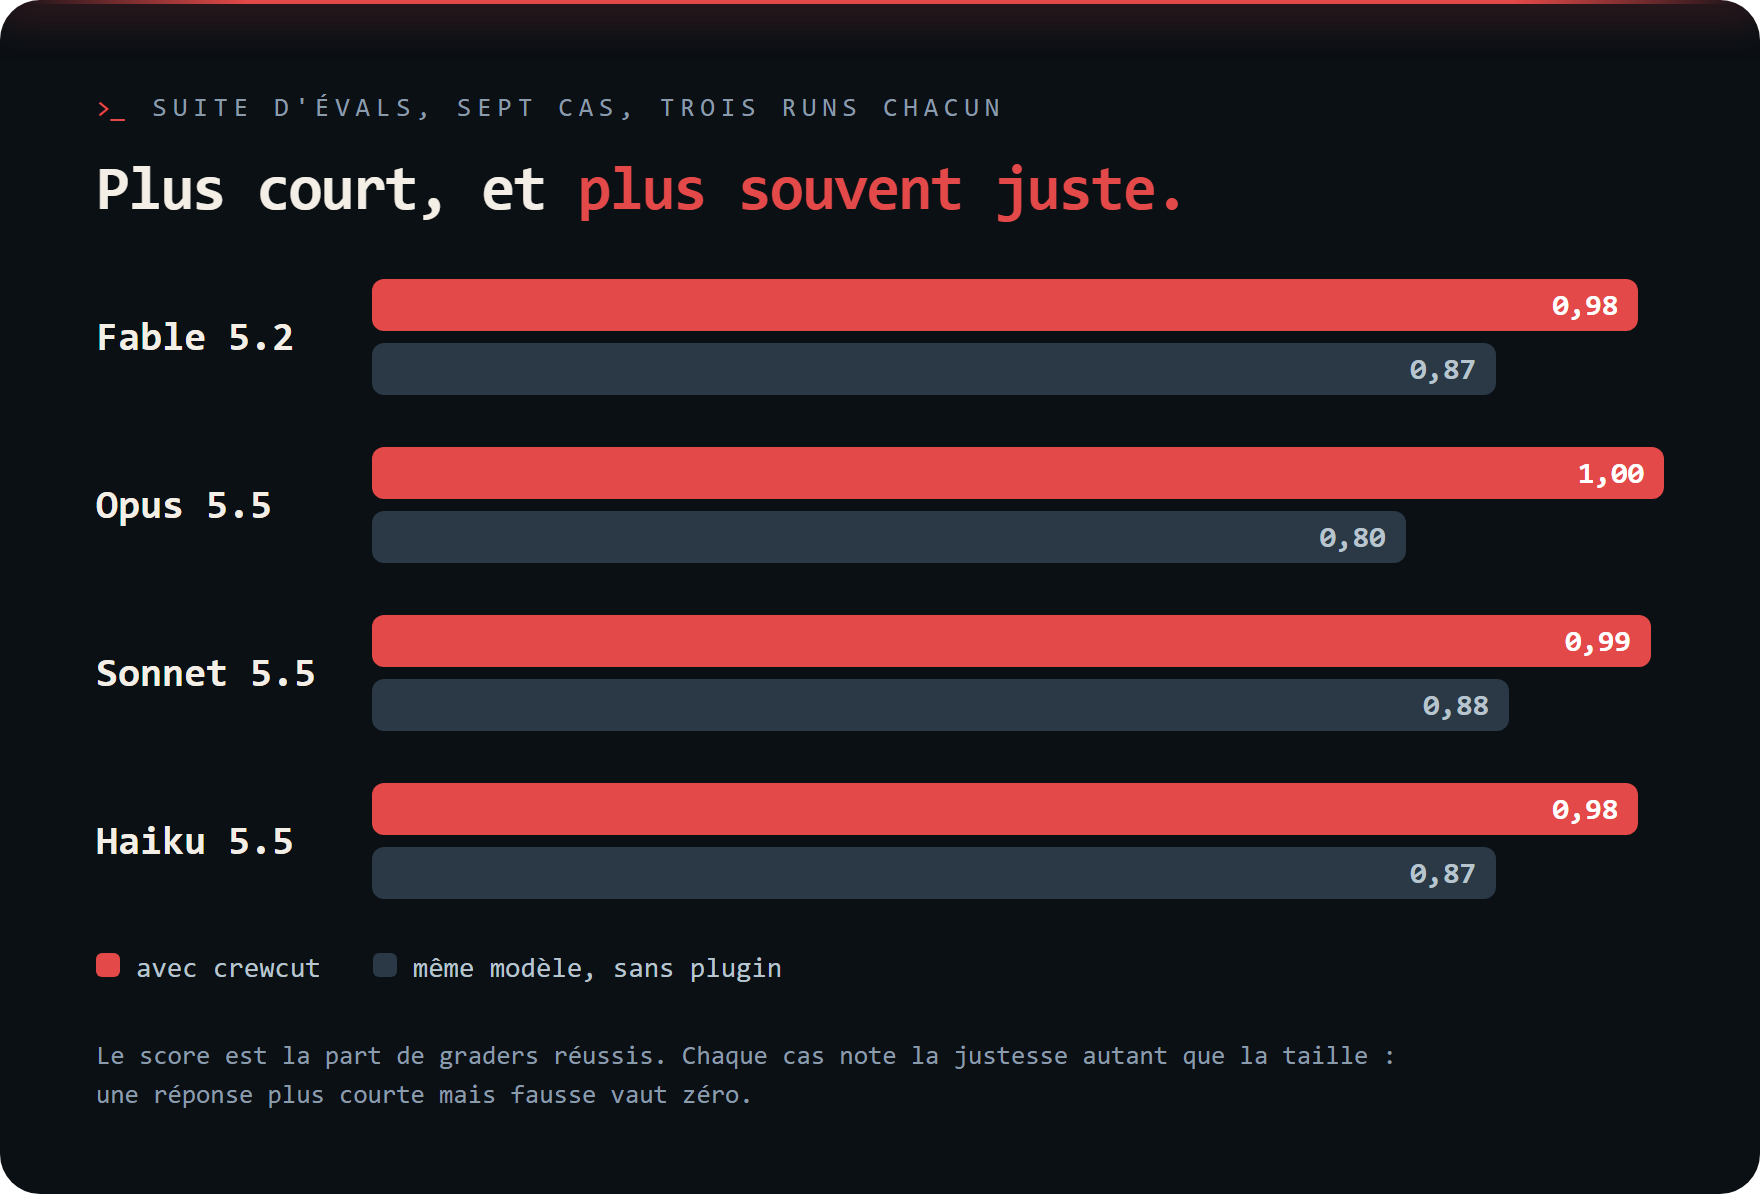
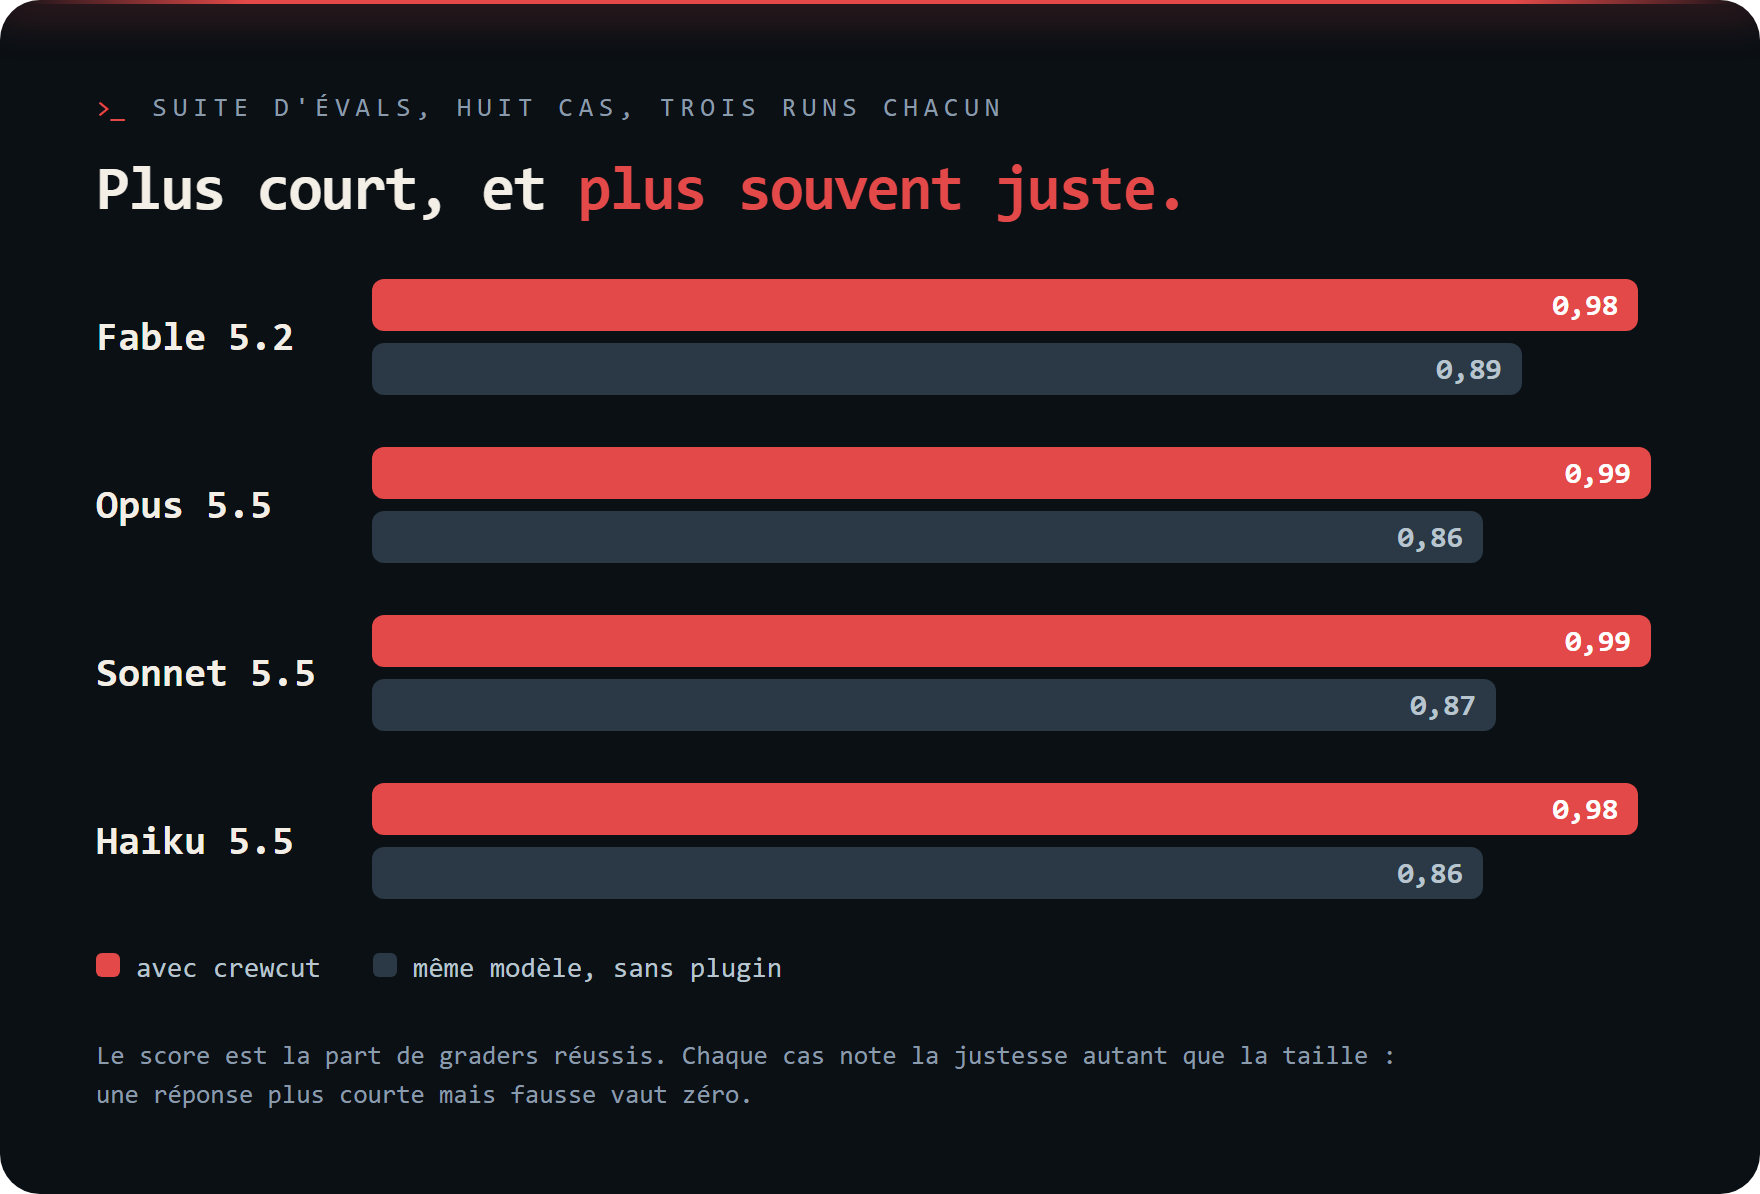
Count eight cases in the eval tables

diff --git a/assets/readme/src/evals-fr.html b/assets/readme/src/evals-fr.html
@@ -9,12 +9,12 @@
 .legend i { display: inline-block; width: 12px; height: 12px; border-radius: 3px; margin-right: 8px; }
 </style>
 <div class="card"><div class="pole"></div>
-<div class="eyebrow">Suite d'évals, sept cas, trois runs chacun</div>
+<div class="eyebrow">Suite d'évals, huit cas, trois runs chacun</div>
 <h1>Plus court, et <em>plus souvent juste.</em></h1>
-<div class="row"><div class="m">Fable 5.2</div><div><div class="bar w" style="width:98%">0,98</div><div class="bar o" style="width:87%">0,87</div></div></div>
-<div class="row"><div class="m">Opus 5.5</div><div><div class="bar w" style="width:100%">1,00</div><div class="bar o" style="width:80%">0,80</div></div></div>
-<div class="row"><div class="m">Sonnet 5.5</div><div><div class="bar w" style="width:99%">0,99</div><div class="bar o" style="width:88%">0,88</div></div></div>
-<div class="row"><div class="m">Haiku 5.5</div><div><div class="bar w" style="width:98%">0,98</div><div class="bar o" style="width:87%">0,87</div></div></div>
+<div class="row"><div class="m">Fable 5.2</div><div><div class="bar w" style="width:98%">0,98</div><div class="bar o" style="width:89%">0,89</div></div></div>
+<div class="row"><div class="m">Opus 5.5</div><div><div class="bar w" style="width:99%">0,99</div><div class="bar o" style="width:86%">0,86</div></div></div>
+<div class="row"><div class="m">Sonnet 5.5</div><div><div class="bar w" style="width:99%">0,99</div><div class="bar o" style="width:87%">0,87</div></div></div>
+<div class="row"><div class="m">Haiku 5.5</div><div><div class="bar w" style="width:98%">0,98</div><div class="bar o" style="width:86%">0,86</div></div></div>
 <div class="legend"><span><i style="background:#E34948"></i>avec crewcut</span><span><i style="background:#2A3945"></i>même modèle, sans plugin</span></div>
 <div class="foot">Le score est la part de graders réussis. Chaque cas note la justesse autant que la taille :<br>une réponse plus courte mais fausse vaut zéro.</div>
 </div>

diff --git a/assets/readme/src/evals.html b/assets/readme/src/evals.html
@@ -9,12 +9,12 @@
 .legend i { display: inline-block; width: 12px; height: 12px; border-radius: 3px; margin-right: 8px; }
 </style>
 <div class="card"><div class="pole"></div>
-<div class="eyebrow">Eval suite, seven cases, three runs each</div>
+<div class="eyebrow">Eval suite, eight cases, three runs each</div>
 <h1>Shorter, and <em>more often right.</em></h1>
-<div class="row"><div class="m">Fable 5.2</div><div><div class="bar w" style="width:98%">0.98</div><div class="bar o" style="width:87%">0.87</div></div></div>
-<div class="row"><div class="m">Opus 5.5</div><div><div class="bar w" style="width:100%">1.00</div><div class="bar o" style="width:80%">0.80</div></div></div>
-<div class="row"><div class="m">Sonnet 5.5</div><div><div class="bar w" style="width:99%">0.99</div><div class="bar o" style="width:88%">0.88</div></div></div>
-<div class="row"><div class="m">Haiku 5.5</div><div><div class="bar w" style="width:98%">0.98</div><div class="bar o" style="width:87%">0.87</div></div></div>
+<div class="row"><div class="m">Fable 5.2</div><div><div class="bar w" style="width:98%">0.98</div><div class="bar o" style="width:89%">0.89</div></div></div>
+<div class="row"><div class="m">Opus 5.5</div><div><div class="bar w" style="width:99%">0.99</div><div class="bar o" style="width:86%">0.86</div></div></div>
+<div class="row"><div class="m">Sonnet 5.5</div><div><div class="bar w" style="width:99%">0.99</div><div class="bar o" style="width:87%">0.87</div></div></div>
+<div class="row"><div class="m">Haiku 5.5</div><div><div class="bar w" style="width:98%">0.98</div><div class="bar o" style="width:86%">0.86</div></div></div>
 <div class="legend"><span><i style="background:#E34948"></i>with crewcut</span><span><i style="background:#2A3945"></i>same model, no plugin</span></div>
 <div class="foot">Score is the share of graders passed. Every case grades correctness as well as size:<br>a shorter answer that is wrong scores zero.</div>
 </div>

diff --git a/README.fr.md b/README.fr.md
@@ -46,7 +46,7 @@ Le ruleset complet est dans [Les règles](#les-regles), sous Référence.
 
 ## Mesuré
 
-<p align="center"><img src="assets/readme/evals-fr.png" width="880" alt="Suite d'évals, sept cas, trois runs chacun. Plus court, et plus souvent juste. Fable 5.2 : 0,98 avec crewcut, 0,87 pour le même modèle sans plugin. Opus 5.5 : 1,00 avec, 0,80 sans. Sonnet 5.5 : 0,99 avec, 0,88 sans. Haiku 5.5 : 0,98 avec, 0,87 sans. Le score est la part de graders réussis. Chaque cas note la justesse autant que la taille : une réponse plus courte mais fausse vaut zéro."></p>
+<p align="center"><img src="assets/readme/evals-fr.png" width="880" alt="Suite d'évals, huit cas, trois runs chacun. Plus court, et plus souvent juste. Fable 5.2 : 0,98 avec crewcut, 0,89 pour le même modèle sans plugin. Opus 5.5 : 0,99 avec, 0,86 sans. Sonnet 5.5 : 0,99 avec, 0,87 sans. Haiku 5.5 : 0,98 avec, 0,86 sans. Le score est la part de graders réussis. Chaque cas note la justesse autant que la taille : une réponse plus courte mais fausse vaut zéro."></p>
 
 <p align="center"><img src="assets/readme/pt5-fr.png" width="880" alt="Le benchmark de ponytail 5, crewcut 0.14.0 face à sans plugin, Opus 5.5, 39 tâches, 5 runs. Lignes de code moins 58 pour cent, intervalle à 95 pour cent de moins 68 à moins 47, mieux sur 32 tâches et pire sur 1. Information de code moins 52 pour cent. Tokens de sortie moins 56 pour cent. Coût moins 34 pour cent, intervalle de moins 44 à moins 24. Temps moins 53 pour cent. Tours moins 19 pour cent. Vérifications cachées : 85 sur 90 réussies, 86 sans le plugin. Six tâches de sécurité : 30 sur 30 dans les deux bras. Tâche de confidentialité : 0 sur 5, puis 8 sur 10 après la règle qui nomme ce qu'un changement peut exposer. Ponytail 5 a publié pour lui-même : code moins 53 pour cent, tokens de sortie moins 45, coût moins 26, temps moins 41. Deux runs à un mois d'écart, les intervalles se recouvrent."></p>
 
@@ -66,15 +66,15 @@ par tâche, limites et reproduction :
 <details>
 <summary>Les chiffres en texte</summary>
 
-Suite d'évals, sept cas, trois runs chacun, Opus 5.5 comme juge. Le coût est
+Suite d'évals, huit cas, trois runs chacun, Opus 5.5 comme juge. Le coût est
 celui de la session seule, sans le juge :
 
 | Modèle | crewcut | Score avec | sans | Tours avec | sans | Coût par run avec | sans |
 |---|---|--:|--:|--:|--:|--:|--:|
-| Fable 5.2 | 0.15.3 | 0,98 | 0,87 | 4,4 | 6,1 | 0,202 USD | 0,193 USD |
-| Opus 5.5 | 0.15.3 | 1,00 | 0,80 | 5,3 | 6,0 | 0,092 USD | 0,089 USD |
-| Sonnet 5.5 | 0.15.3 | 0,99 | 0,88 | 4,6 | 6,0 | 0,045 USD | 0,042 USD |
-| Haiku 5.5 | 0.15.3 | 0,98 | 0,87 | 5,6 | 6,9 | 0,003 USD | 0,003 USD |
+| Fable 5.2 | 0.15.6 | 0,98 | 0,89 | 4,3 | 6,0 | 0,197 USD | 0,189 USD |
+| Opus 5.5 | 0.15.6 | 0,99 | 0,86 | 4,8 | 5,7 | 0,089 USD | 0,086 USD |
+| Sonnet 5.5 | 0.15.6 | 0,99 | 0,87 | 4,4 | 5,6 | 0,043 USD | 0,040 USD |
+| Haiku 5.5 | 0.15.6 | 0,98 | 0,86 | 5,3 | 6,4 | 0,003 USD | 0,003 USD |
 
 Le benchmark de ponytail 5, Opus 5.5, 39 tâches, 5 runs, crewcut 0.14.0
 face à sans plugin :

diff --git a/README.md b/README.md
@@ -46,7 +46,7 @@ The full ruleset is in [The rules](#the-rules), under Reference.
 
 ## Measured
 
-<p align="center"><img src="assets/readme/evals.png" width="880" alt="Eval suite, seven cases, three runs each. Shorter, and more often right. Fable 5.2: 0.98 with crewcut, 0.87 for the same model with no plugin. Opus 5.5: 1.00 with, 0.80 without. Sonnet 5.5: 0.99 with, 0.88 without. Haiku 5.5: 0.98 with, 0.87 without. Score is the share of graders passed. Every case grades correctness as well as size: a shorter answer that is wrong scores zero."></p>
+<p align="center"><img src="assets/readme/evals.png" width="880" alt="Eval suite, eight cases, three runs each. Shorter, and more often right. Fable 5.2: 0.98 with crewcut, 0.89 for the same model with no plugin. Opus 5.5: 0.99 with, 0.86 without. Sonnet 5.5: 0.99 with, 0.87 without. Haiku 5.5: 0.98 with, 0.86 without. Score is the share of graders passed. Every case grades correctness as well as size: a shorter answer that is wrong scores zero."></p>
 
 <p align="center"><img src="assets/readme/pt5.png" width="880" alt="Ponytail 5's benchmark, crewcut 0.14.0 against no plugin, Opus 5.5, 39 tasks, 5 runs. Lines of code minus 58 percent, 95 percent interval minus 68 to minus 47, better on 32 tasks and worse on 1. Code information minus 52 percent. Output tokens minus 56 percent. Cost minus 34 percent, interval minus 44 to minus 24. Time minus 53 percent. Turns minus 19 percent. Hidden checks: 85 of 90 passed, 86 without the plugin. Six security tasks: 30 of 30 in both arms. Privacy task: 0 of 5, then 8 of 10 after the rule that names what a change could expose. Ponytail 5 published for itself: code minus 53 percent, output tokens minus 45, cost minus 26, time minus 41. Two runs a month apart, intervals overlap."></p>
 
@@ -66,15 +66,15 @@ limits and how to reproduce:
 <details>
 <summary>The figures as text</summary>
 
-Eval suite, seven cases, three runs each, Opus 5.5 as judge. The cost is the
+Eval suite, eight cases, three runs each, Opus 5.5 as judge. The cost is the
 session alone, without the judge:
 
 | Model | crewcut | Score with | without | Turns with | without | Cost per run with | without |
 |---|---|--:|--:|--:|--:|--:|--:|
-| Fable 5.2 | 0.15.3 | 0.98 | 0.87 | 4.4 | 6.1 | 0.202 USD | 0.193 USD |
-| Opus 5.5 | 0.15.3 | 1.00 | 0.80 | 5.3 | 6.0 | 0.092 USD | 0.089 USD |
-| Sonnet 5.5 | 0.15.3 | 0.99 | 0.88 | 4.6 | 6.0 | 0.045 USD | 0.042 USD |
-| Haiku 5.5 | 0.15.3 | 0.98 | 0.87 | 5.6 | 6.9 | 0.003 USD | 0.003 USD |
+| Fable 5.2 | 0.15.6 | 0.98 | 0.89 | 4.3 | 6.0 | 0.197 USD | 0.189 USD |
+| Opus 5.5 | 0.15.6 | 0.99 | 0.86 | 4.8 | 5.7 | 0.089 USD | 0.086 USD |
+| Sonnet 5.5 | 0.15.6 | 0.99 | 0.87 | 4.4 | 5.6 | 0.043 USD | 0.040 USD |
+| Haiku 5.5 | 0.15.6 | 0.98 | 0.86 | 5.3 | 6.4 | 0.003 USD | 0.003 USD |
 
 Ponytail 5's benchmark, Opus 5.5, 39 tasks, 5 runs, crewcut 0.14.0 against
 no plugin:

diff --git a/evals/RESULTS.md b/evals/RESULTS.md
@@ -206,6 +206,32 @@ in every trace. Check the trace before reading an ablation of the map.
 The table of the previous section is over the seven older cases; the next
 full measure counts eight.
 
+## Eight cases (crewcut 0.15.6, 2026-11-13)
+
+| Model | Score with | without | Turns with | without | Session cost with | without |
+|---|--:|--:|--:|--:|--:|--:|
+| Fable 5.2 | 0.98 | 0.89 | 4.3 | 6.0 | 0.197 USD | 0.189 USD |
+| Opus 5.5 | 0.99 | 0.86 | 4.8 | 5.7 | 0.089 USD | 0.086 USD |
+| Sonnet 5.5 | 0.99 | 0.87 | 4.4 | 5.6 | 0.043 USD | 0.040 USD |
+| Haiku 5.5 | 0.98 | 0.86 | 5.3 | 6.4 | 0.003 USD | 0.003 USD |
+
+This table is not a new run. It joins the seven cases of the section before
+last and `zod-email`, measured two hours apart on the same day, with the
+same judge, the same Claude Code and the same plugin code: between crewcut
+0.15.3 and 0.15.6 only the version string, the examples, the README and the
+eval cases changed, none of which reaches a session. One case was run
+again: `explain-bug` on Opus, whose first measure had lost a run without
+the plugin to a process spawn error; with three runs its score without the
+plugin is higher, which is most of the move from 0.80 to 0.86 on that row.
+48 runs per model, none in error, none out of usage.
+
+With the plugin, what still fails: on Fable, `date-picker` `short-answer`
+twice and `shared-bug` `root-cause-stated` three times (the fix is in the
+shared function in every run, the judge wants the cause said more plainly);
+on Opus and Sonnet, `explain-bug` `full-explanation` once each; on Haiku,
+`date-picker` `short-answer` three times and one banned character in an
+answer.
+
 What it says:
 
 - The savings show up with the size of the project. `csv-export` is twenty

diff --git a/skills/crewcut-gain/SKILL.md b/skills/crewcut-gain/SKILL.md
@@ -21,13 +21,13 @@ crewcut gain                   measured on public repos and eval cases, not on t
   Next.js boilerplate, Opus 5.5    18 %    45 %   40 %   33 %   21/21
   controls on Haiku, LOC: caveman 104 % and 85 %, yagni prompt 112 % and 71 %
 
-  eval cases (seven, three runs each, same model with and without)
+  eval cases (eight, three runs each, same model with and without)
 
                  score with / without   turns with / without   session cost with / without
-  Fable 5.2      0.98 / 0.87            4.4 / 6.1     -28 %    0.202 / 0.193 USD     +5 %
-  Opus 5.5       1.00 / 0.80            5.3 / 6.0     -12 %    0.092 / 0.089 USD     +3 %
-  Sonnet 5.5     0.99 / 0.88            4.6 / 6.0     -23 %    0.045 / 0.042 USD     +7 %
-  Haiku 5.5      0.98 / 0.87            5.6 / 6.9     -19 %    0.003 / 0.003 USD      0 %
+  Fable 5.2      0.98 / 0.89            4.3 / 6.0     -28 %    0.197 / 0.189 USD     +4 %
+  Opus 5.5       0.99 / 0.86            4.8 / 5.7     -16 %    0.089 / 0.086 USD     +3 %
+  Sonnet 5.5     0.99 / 0.87            4.4 / 5.6     -21 %    0.043 / 0.040 USD     +8 %
+  Haiku 5.5      0.98 / 0.86            5.3 / 6.4     -17 %    0.003 / 0.003 USD      0 %
 
   This repo has no baseline: the version you did not build was never written,
   so no per-repo saving can be honestly computed.

diff --git a/CHANGELOG.md b/CHANGELOG.md
@@ -5,6 +5,13 @@ follows Keep a Changelog and the project follows Semantic Versioning.
 
 ## [Unreleased]
 
+### Changed
+
+- The eval tables and the eval card count eight cases: the seven measured
+  with Opus as judge and `zod-email`, same day, same plugin code. Fable 5.2
+  0.98 against 0.89 without the plugin, Opus 5.5 0.99 against 0.86, Sonnet
+  5.5 0.99 against 0.87, Haiku 5.5 0.98 against 0.86.
+
 ## [0.15.6] - 2026-11-13
 
 ### Added
